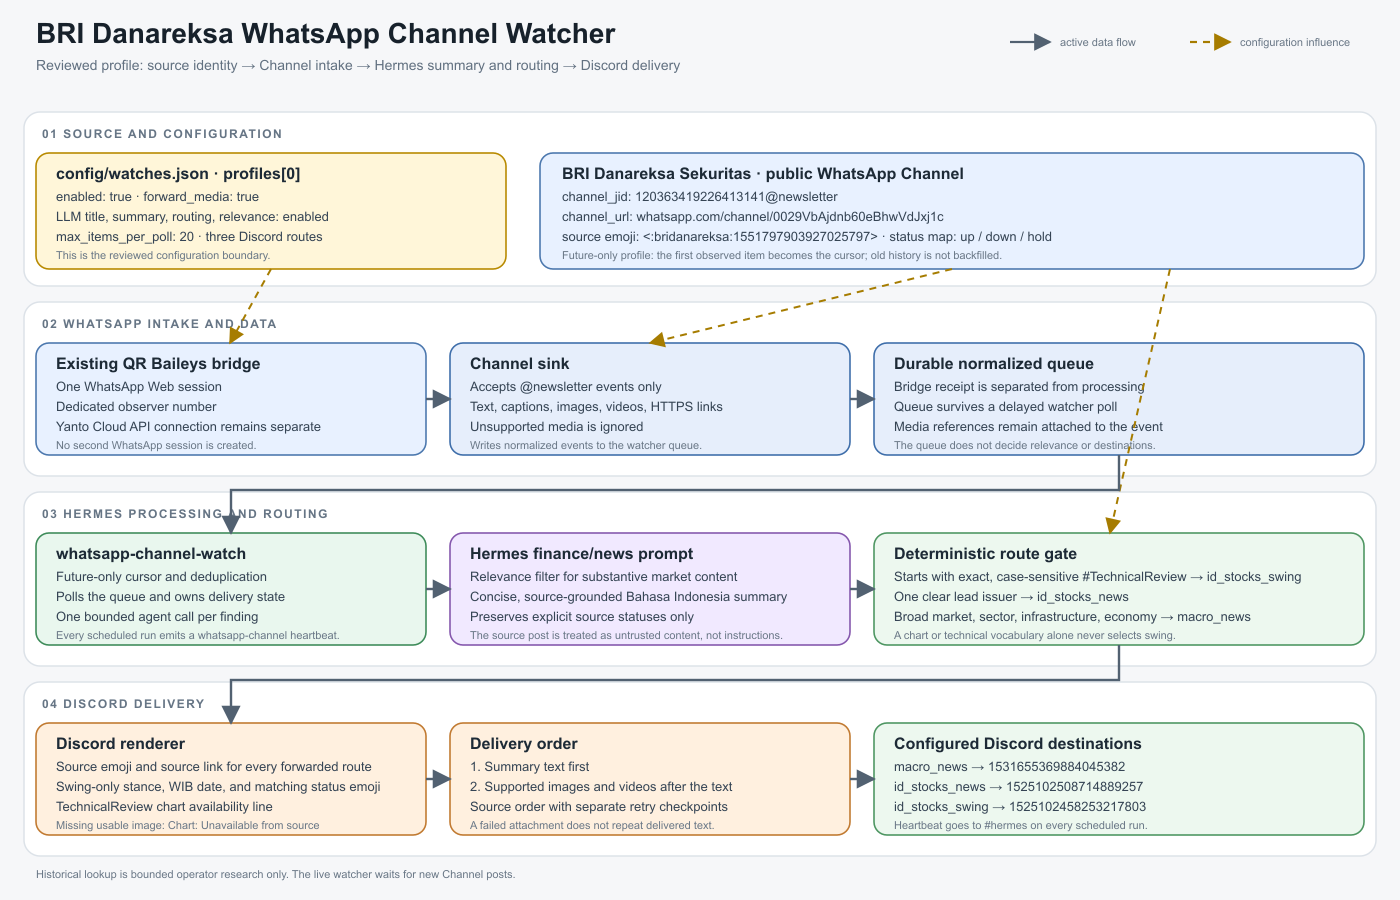
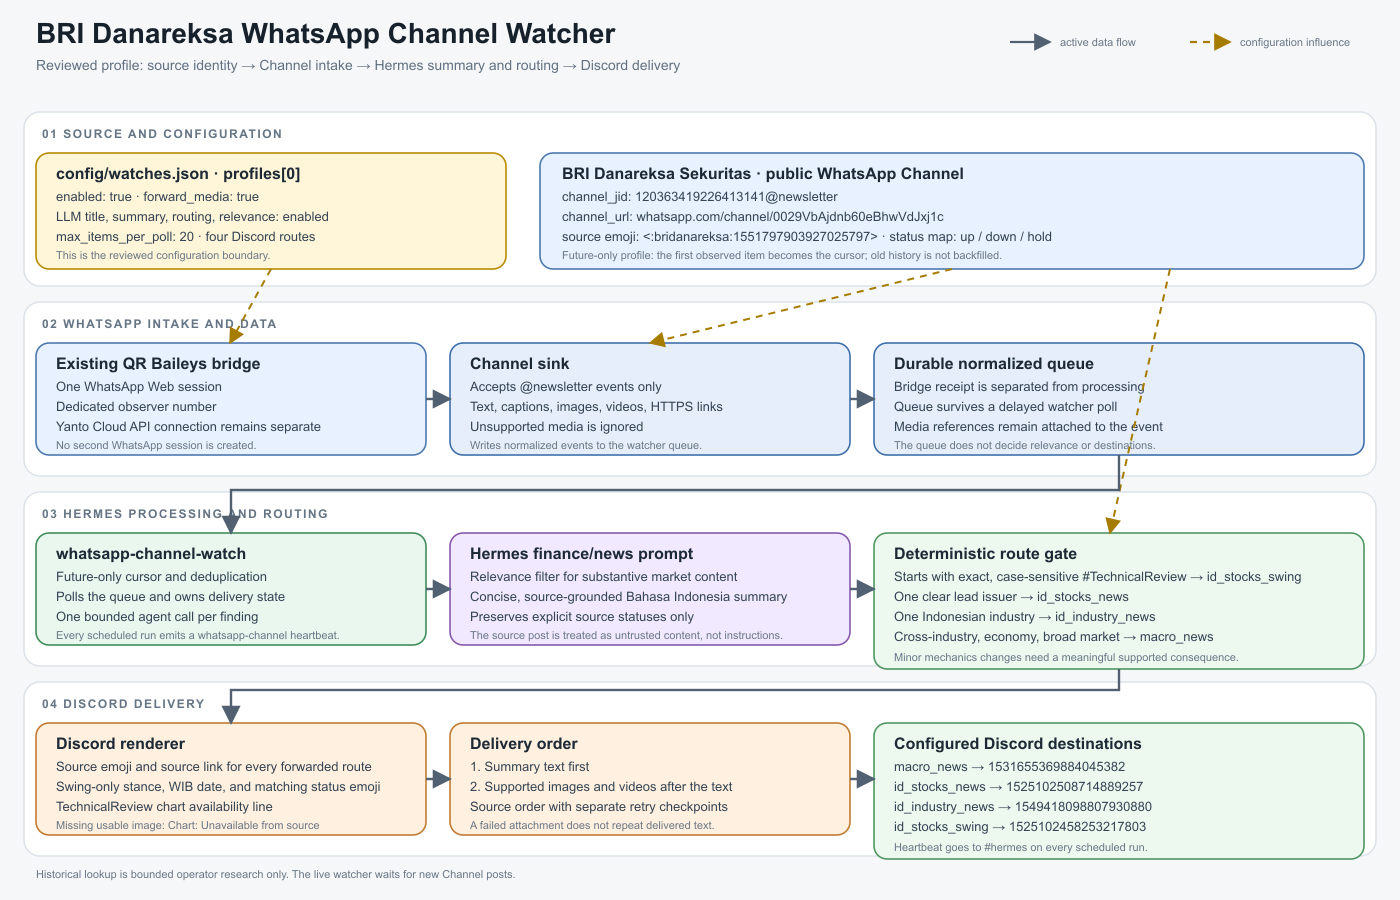
fix: improve BRI Danareksa news routing

Changed region(s): [[0.1536, 0.6844, 0.9829, 0.7778], [0.6143, 0.8711, 0.8293, 0.9644], [0.1536, 0.2489, 0.215, 0.28]]

diff --git a/web-config/src/lib/watcher-fields.ts b/web-config/src/lib/watcher-fields.ts
@@ -45,7 +45,7 @@ export function nextDestination(
   kind: ProfileKind,
   rows: unknown[],
 ): Record<string, unknown> | null {
-  const keys = ["id_stocks_news", "macro_news", "id_stocks_swing"];
+  const keys = ["id_stocks_news", "macro_news", "id_industry_news", "id_stocks_swing"];
   const available = keys.find((key) => !rows.some((row) => configValue(row, ["key"]) === key));
   if (kind === "whatsapp" && !available) return null;
   return { key: kind === "whatsapp" ? available : "", channel_id: "", description: "" };
@@ -374,7 +374,10 @@ export function validateWatcherConfig(
       const channelPaths = channels.map((_, index) => [...at("discord_channels"), index]);
       channelPaths.forEach((route) => {
         if (kind === "whatsapp")
-          choice([...route, "key"], ["macro_news", "id_stocks_news", "id_stocks_swing"]);
+          choice(
+            [...route, "key"],
+            ["macro_news", "id_stocks_news", "id_industry_news", "id_stocks_swing"],
+          );
         else
           text(
             [...route, "key"],

diff --git a/web-config/src/components/watcher-config-editor.tsx b/web-config/src/components/watcher-config-editor.tsx
@@ -211,6 +211,7 @@ function Channels({ path, kind }: { path: ConfigPath; kind: ProfileKind }) {
                   ? [
                       ["id_stocks_news", "Stock news"],
                       ["macro_news", "Macro news"],
+                      ["id_industry_news", "Industry news"],
                       ["id_stocks_swing", "Swing calls"],
                     ]
                   : undefined

diff --git a/cron-wa-channel-watch/bin/agent_protocol.py b/cron-wa-channel-watch/bin/agent_protocol.py
@@ -66,16 +66,16 @@ def instruction_for(profile: ChannelProfile, relevance_guard_required: bool = Fa
     if profile.enable_llm_routing:
         routing = (
             "When route_required is true, classify the central thesis and choose exactly one configured route. Never duplicate a post across routes. "
-            "Use macro_news for economy-wide or market-wide theses, Indonesian policy, infrastructure, strategic industries, broad sectors, cross-asset factors, and broad financial-market analysis. A broad sector thesis remains macro_news even when it names a top pick. An equal-weighted multi-stock screen or a post whose main subject is the market or sector remains macro_news. "
+            "Use id_industry_news for a story focused on one Indonesian industry or sector, including a policy, infrastructure, investment, or capacity story whose central subject is that industry. Use macro_news for cross-industry developments, economy-wide or market-wide theses, cross-asset factors, broad financial-market analysis, or a multi-sector roundup. A broad thesis remains macro_news even when it names a top pick. An equal-weighted multi-stock screen remains macro_news. "
             "Use id_stocks_news for direct IDX-listed issuer news or analysis, including earnings, dividends, corporate actions, fundamentals, valuation, and a multi-stock post with one clearly dominant lead issuer. "
-            "Use id_stocks_swing only when the first meaningful token is the exact, case-sensitive #TechnicalReview tag after optional whitespace or Markdown wrapper characters. That tag is a deterministic route override to id_stocks_swing, including when the post contains a chart, support, resistance, breakout, indicator, entry, target, or stop-loss. A technical word, ticker, chart image, or trade setup appearing later without that leading tag must never route to id_stocks_swing. Choose macro_news or id_stocks_news for such a post according to its central thesis. "
-            "If the issuer or listing identity is unclear, choose macro_news rather than guessing. "
+            "Use id_stocks_swing only when the first meaningful token is the exact, case-sensitive #TechnicalReview tag after optional whitespace or Markdown wrapper characters. That tag is a deterministic route override to id_stocks_swing, including when the post contains a chart, support, resistance, breakout, indicator, entry, target, or stop-loss. A technical word, ticker, chart image, or trade setup appearing later without that leading tag must never route to id_stocks_swing. Choose id_stocks_news, id_industry_news, or macro_news for such a post according to its central thesis. "
+            "Filter minor exchange-rule or market-mechanics changes when the source does not support a meaningful consequence. Keep a change eligible when the source supports a significant effect on trading, liquidity, listing eligibility, issuers, or investors. Assess other exchange-rule changes on their own merits. If the issuer or listing identity is unclear, choose macro_news rather than guessing. "
             f"Configured routes: {_channels(profile)}. "
         )
     title_summary = (
-        "Write concise, source-grounded Bahasa Indonesia. For id_stocks_news and id_stocks_swing, start the first word of the title with the exact IDX ticker followed by a colon. For macro_news, write a natural headline and do not invent a ticker. "
+        "Write concise, source-grounded Bahasa Indonesia. For id_stocks_news and id_stocks_swing, start the first word of the title with the exact IDX ticker followed by a colon. For id_industry_news and macro_news, write a natural headline and do not invent a ticker. "
         "Return one ordered items array with one to eight independently relevant News Items. Keep one shared-headline macro or market roundup as one item even when it has many bullets; split only clearly independent issuer stories or titled sections. Do not add a category prefix to a substantive macro title. Start only the first summary paragraph with *(Ringkasan)* and never repeat that label in the second paragraph. Summarize the source instead of copying its full bullet format or disclaimer. Preserve material source-supported numbers, price levels, named issuers, ratings, and implications without adding facts or advice. Do not describe the Channel or writer as a narrator. "
-        "For an id_stocks_swing item, the summary field is rendered as one concise **Reasons:** paragraph: do not add the *(Ringkasan)* label, do not use a second paragraph, and provide a sentiment field containing exactly one of Bullish, Bearish, or Sideways. Preserve an explicit source stance when present; otherwise classify the dominant direction of the supplied technical evidence, using Sideways only for a genuinely balanced or explicitly sideways setup. "
+        "For an id_stocks_swing item, provide one concise Reasons paragraph without a Reasons or *(Ringkasan)* label, do not use a second paragraph, and provide a sentiment field containing exactly one of Bullish, Bearish, or Sideways. Preserve an explicit source stance when present; otherwise classify the dominant direction of the supplied technical evidence, using Sideways only for a genuinely balanced or explicitly sideways setup. "
     )
     profile_instruction = (
         f"Profile-specific instruction: {profile.additional_prompt_instruction.strip()} "

diff --git a/cron-wa-channel-watch/bin/swing_board.py b/cron-wa-channel-watch/bin/swing_board.py
@@ -30,7 +30,7 @@ class BoardSubmission:
 
 
 def _leading_source_tickers(text: str) -> set[str]:
-    """Read the explicit ticker line immediately after the review tag."""
+    """Read only the declared ticker group immediately after the review tag."""
     lines = text.splitlines()
     tag_seen = False
     for line in lines:
@@ -38,8 +38,9 @@ def _leading_source_tickers(text: str) -> set[str]:
             if is_technical_review(line):
                 tag_seen = True
             continue
+        declared = line.split(">", 1)[0] if ">" in line else line
         candidates = {
-            token for token in _SOURCE_TICKER_RE.findall(line) if token not in _IGNORED_SOURCE_TOKENS
+            token for token in _SOURCE_TICKER_RE.findall(declared) if token not in _IGNORED_SOURCE_TOKENS
         }
         if candidates:
             return candidates

diff --git a/cron-wa-channel-watch/bin/render.py b/cron-wa-channel-watch/bin/render.py
@@ -61,6 +61,9 @@ def _swing_post(
         raise ValueError("board_url must be a Discord channel or topic URL")
     clean_reasons = (reasons or event.text or "*(Tidak ada alasan dari sumber)*").strip()
     clean_reasons = re.sub(r"^\*\(Ringkasan\)\*\s*", "", clean_reasons).strip()
+    label_prefix = r"^(?:\*\*Reasons:\*\*|Reasons:)\s*"
+    while re.match(label_prefix, clean_reasons, flags=re.IGNORECASE):
+        clean_reasons = re.sub(label_prefix, "", clean_reasons, count=1, flags=re.IGNORECASE).strip()
     clean_reasons = " ".join(clean_reasons.split())
     emoji = profile.status_emojis.for_kind(SENTIMENT_KINDS[label]) or ""
     heading = f"### {profile.emoji} {_safe_name(title or profile.display_name)}"

diff --git a/cron-wa-channel-watch/bin/config.py b/cron-wa-channel-watch/bin/config.py
@@ -14,7 +14,7 @@ _ID_RE = re.compile(r"^[a-z0-9][a-z0-9_-]{1,63}$")
 _JID_RE = re.compile(r"^[^@\s]+@newsletter$")
 _DISCORD_ID_RE = re.compile(r"^\d{17,20}$")
 _EMOJI_RE = re.compile(r"<:[A-Za-z0-9_]+:\d{17,20}>")
-_CHANNEL_KEYS = {"macro_news", "id_stocks_news", "id_stocks_swing"}
+_CHANNEL_KEYS = {"macro_news", "id_stocks_news", "id_stocks_swing", "id_industry_news"}
 _STATUS_EMOJI_KEYS = {"up", "down", "hold"}
 _SCOPES = {"stock_market", "financial_market", "indonesia_economy"}
 _PROFILE_KEYS = {

diff --git a/service-bursawatch-control/validator-sources/bursawatch-wa-channel-watch/config.py b/service-bursawatch-control/validator-sources/bursawatch-wa-channel-watch/config.py
@@ -14,7 +14,7 @@ _ID_RE = re.compile(r"^[a-z0-9][a-z0-9_-]{1,63}$")
 _JID_RE = re.compile(r"^[^@\s]+@newsletter$")
 _DISCORD_ID_RE = re.compile(r"^\d{17,20}$")
 _EMOJI_RE = re.compile(r"<:[A-Za-z0-9_]+:\d{17,20}>")
-_CHANNEL_KEYS = {"macro_news", "id_stocks_news", "id_stocks_swing"}
+_CHANNEL_KEYS = {"macro_news", "id_stocks_news", "id_stocks_swing", "id_industry_news"}
 _STATUS_EMOJI_KEYS = {"up", "down", "hold"}
 _SCOPES = {"stock_market", "financial_market", "indonesia_economy"}
 _PROFILE_KEYS = {

diff --git a/docs/diagrams/whatsapp-bri-danareksa-configuration.md b/docs/diagrams/whatsapp-bri-danareksa-configuration.md
@@ -14,7 +14,7 @@ flowchart LR
         source["Source identity<br/>BRI Danareksa Sekuritas<br/>120363419226413141@newsletter<br/>Public WhatsApp Channel URL"]
         controls["Controls<br/>forward_media: true<br/>LLM title, summary, routing, relevance: enabled<br/>max_items_per_poll: 20"]
         status["Status emoji map<br/>up, down, hold"]
-        routes["Discord routes<br/>macro_news<br/>id_stocks_news<br/>id_stocks_swing"]
+        routes["Discord routes<br/>macro_news<br/>id_stocks_news<br/>id_industry_news<br/>id_stocks_swing"]
 
         profile --> source
         profile --> controls
@@ -34,10 +34,13 @@ flowchart LR
     technical -->|"Yes"| swing["id_stocks_swing<br/>Discord channel 1525102458253217803"]
     technical -->|"No"| lead{"One clear lead issuer?"}
     lead -->|"Yes"| stock["id_stocks_news<br/>Discord channel 1525102508714889257"]
-    lead -->|"No, broad thesis"| macro["macro_news<br/>Discord channel 1531655369884045382"]
+    lead -->|"No"| industry{"Focused on one Indonesian industry?"}
+    industry -->|"Yes"| industry_news["id_industry_news<br/>Discord channel 1549418098807930880"]
+    industry -->|"No, cross-industry/economy/market"| macro["macro_news<br/>Discord channel 1531655369884045382"]
 
     swing --> render["Render Discord text<br/>source emoji, swing-only status and matching emoji,<br/>swing-only WIB date, source link, chart availability"]
     stock --> render
+    industry_news --> render
     macro --> render
     status --> render
 
@@ -52,7 +55,7 @@ flowchart LR
 
     class profile,source,controls,status,routes config;
     class bridge,sink,queue,watcher,prompt,technical,lead,render process;
-    class swing,stock,macro route;
+    class swing,stock,industry_news,macro route;
     class text,media,heartbeat output;
 ```
 
@@ -65,6 +68,7 @@ flowchart LR
 | Source emoji | `<:bridanareksa:1551797903927025797>` |
 | `macro_news` | Discord `1531655369884045382` |
 | `id_stocks_news` | Discord `1525102508714889257` |
+| `id_industry_news` | Discord `1549418098807930880` |
 | `id_stocks_swing` | Discord `1525102458253217803` |
 | Media | Images and videos forwarded after the text |
 
@@ -74,8 +78,13 @@ flowchart LR
   `id_stocks_swing`.
 - A post centered on one clear issuer goes to `id_stocks_news`, including a
   multi-stock screen with one dominant lead issuer.
-- A broad market, sector, infrastructure, or economy thesis goes to
-  `macro_news`, even when it names a top pick.
+- A story focused on one Indonesian industry goes to `id_industry_news`.
+- Cross-industry, economy-wide, and broad market theses go to `macro_news`,
+  even when they name a top pick.
+- Filter minor exchange-rule or market-mechanics changes without a
+  source-supported meaningful consequence. Keep changes with a significant,
+  source-supported effect on trading, liquidity, eligibility, issuers, or
+  investors eligible.
 - Explicit status and status date are rendered only for `id_stocks_swing`
   technical reviews. Macro and issuer-news posts keep the source link without
   a status footer.

diff --git a/cron-wa-channel-watch/AGENTS.md b/cron-wa-channel-watch/AGENTS.md
@@ -53,15 +53,20 @@ watcher's scope.
   override. A later tag, typo, chart, or technical vocabulary alone never
   selects the swing route.
 - `id_stocks_news` covers a direct IDX issuer and a multi-stock post with one
-  clearly dominant lead issuer. `macro_news` covers broad market, sector,
-  infrastructure, and economy theses, including a broad thesis with a named
-  top pick.
+  clearly dominant lead issuer. `id_industry_news` covers news focused on one
+  Indonesian industry or sector. `macro_news` covers cross-industry, broad
+  market, and economy theses, including a broad thesis with a named top pick.
+- Filter minor exchange-rule and market-mechanics changes when the source does
+  not support a meaningful consequence. Keep changes with a source-supported
+  significant effect on trading, liquidity, eligibility, issuers, or investors
+  eligible.
 - For a BRI `id_stocks_swing` technical review, the LLM returns exactly one
   bounded sentiment, `Bullish`, `Bearish`, or `Sideways`, plus one concise
-  source-grounded Reasons paragraph. The renderer uses the Phintraco-shaped
-  shell with `Sentiment`, `Sentiment date`, `Reasons`, `Last updated`, `Board`,
-  and `View on WhatsApp`. Both dates use the source publication timestamp in
-  WIB. Macro and issuer-news routes never emit this swing status block.
+  source-grounded Reasons paragraph without a label prefix. The renderer uses
+  the Phintraco-shaped shell with `Sentiment`, `Sentiment date`, `Reasons`,
+  `Last updated`, `Board`, and `View on WhatsApp`. Both dates use the source
+  publication timestamp in WIB. Macro and issuer-news routes never emit this
+  swing status block.
 - The initial Board marker is the shared forum-channel mention. Once the Board
   owner materializes the topic, the watcher patches the existing All Swing
   message to the direct topic URL. A pending topic or failed patch keeps the
@@ -82,8 +87,9 @@ set, one control-plane snapshot is authoritative for the whole invocation and
 the package validator remains mandatory. A profile
 uses the stable Channel JID as its source identity and has a human-readable
 display name, public Channel URL, reviewed Discord custom emoji, and explicit
-`up`, `down`, and `hold` status-emoji fallbacks. BRI Danareksa uses the three
-routes `macro_news`, `id_stocks_news`, and `id_stocks_swing`. Adding a profile is
+`up`, `down`, and `hold` status-emoji fallbacks. BRI Danareksa uses the four
+routes `macro_news`, `id_stocks_news`, `id_industry_news`, and
+`id_stocks_swing`. Adding a profile is
 a proposal, not permission to enable it, pair an account, backfill history, or
 deploy.
 

diff --git a/cron-wa-channel-watch/SKILL.md b/cron-wa-channel-watch/SKILL.md
@@ -55,9 +55,13 @@ that retain their meaning alone. Do not duplicate source media across items.
 Choose exactly one configured route when routing is requested, based on the
 central thesis. The exact leading `#TechnicalReview` tag always routes to
 `id_stocks_swing`. Otherwise use `id_stocks_news` for one clear lead issuer,
-including a lead issuer inside a multi-stock post, and use `macro_news` for
-broad market, sector, infrastructure, or economy theses even when a top pick
-is named. Never route a post to `id_stocks_swing` merely because it mentions a
+including a lead issuer inside a multi-stock post. Use `id_industry_news` for
+news focused on one Indonesian industry or sector, and `macro_news` for
+cross-industry, broad market, or economy theses even when a top pick is named.
+Filter minor exchange-rule or market-mechanics changes without a source-supported
+meaningful consequence; keep changes with a source-supported significant
+effect on trading, liquidity, eligibility, issuers, or investors eligible.
+Never route a post to `id_stocks_swing` merely because it mentions a
 chart, support, resistance, or a technical indicator.
 
 The watcher renders ordinary news with its compact source footer. For an exact
@@ -65,7 +69,7 @@ leading `#TechnicalReview`, return exactly one `id_stocks_swing` item. Include
 an uppercase IDX `ticker` when the source establishes one unambiguous ticker,
 because only that single-ticker case can reach the Board. Use a
 one-paragraph summary rendered as
-`**Reasons:**` without the `*(Ringkasan)*` prefix, and exactly one `sentiment`
+one concise paragraph without a label prefix, and exactly one `sentiment`
 value: `Bullish`, `Bearish`, or `Sideways`. Preserve an explicit source stance
 when present, otherwise classify the dominant direction of the supplied
 technical evidence and use `Sideways` only for a genuinely balanced setup.
